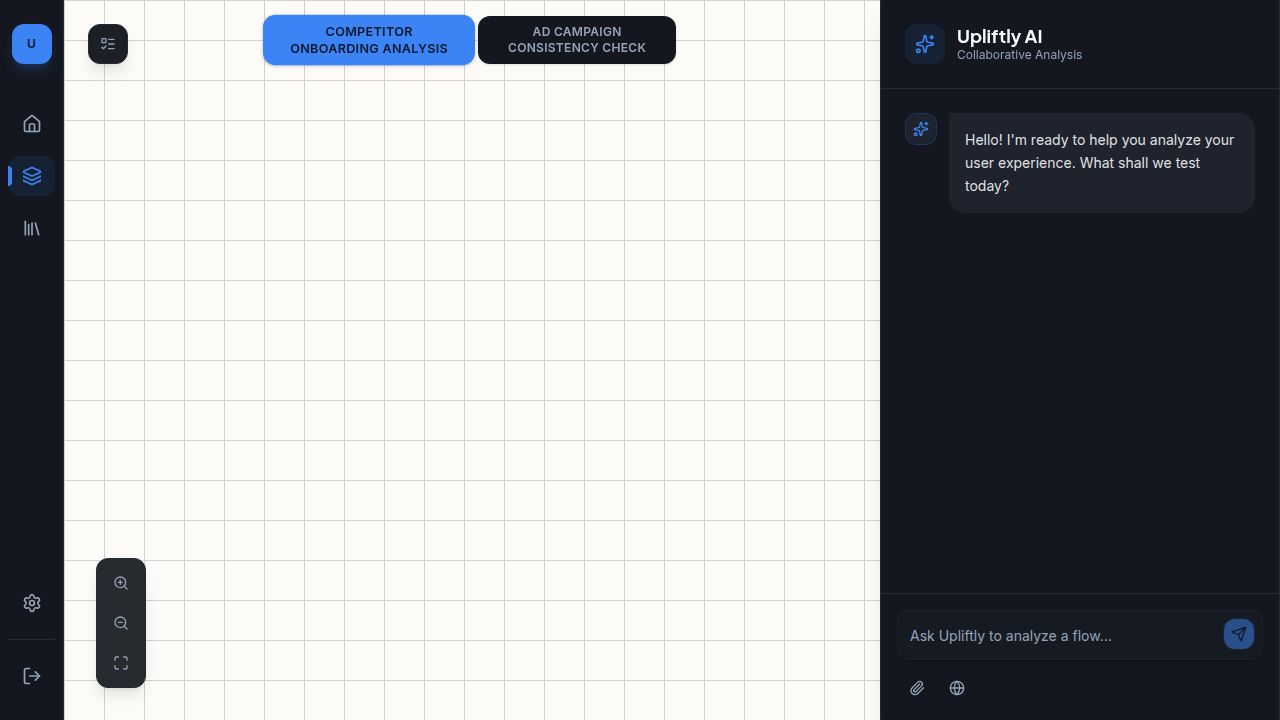
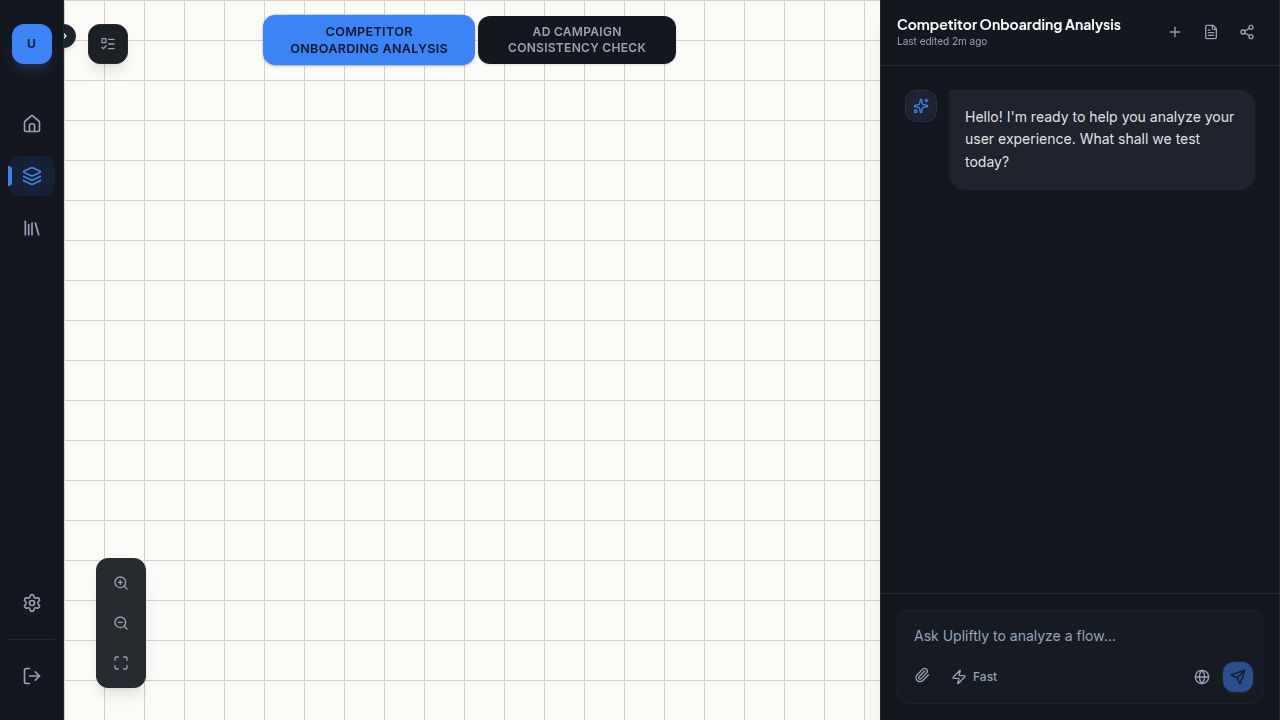
Add quick mode switching for AI chat interactions
Import new icons (Zap, Brain) and add a toggle button to the chat input toolbar in ChatPanel.tsx to switch between "Fast" and "Thinking" modes.

Replit-Commit-Author: Agent
Replit-Commit-Session-Id: ee7d8f41-18be-477e-8907-b86719c88b76
Replit-Commit-Checkpoint-Type: full_checkpoint
Replit-Commit-Event-Id: c0c9cacc-ed82-46da-b4ee-cfec5794dd4d
Replit-Commit-Screenshot-Url: https://storage.googleapis.com/screenshot-production-us-central1/79161833-a499-40d9-9374-0f55e77ff4c2/ee7d8f41-18be-477e-8907-b86719c88b76/55CwH3M
Replit-Helium-Checkpoint-Created: true

diff --git a/client/src/components/chat/ChatPanel.tsx b/client/src/components/chat/ChatPanel.tsx
@@ -3,7 +3,7 @@ import { ScrollArea } from "@/components/ui/scroll-area";
 import { Avatar, AvatarFallback, AvatarImage } from "@/components/ui/avatar";
 import { Button } from "@/components/ui/button";
 import { Input } from "@/components/ui/input";
-import { Send, Sparkles, User, Paperclip, Globe, Plus, FileText, Share2 } from "lucide-react";
+import { Send, Sparkles, User, Paperclip, Globe, Plus, FileText, Share2, Zap, Brain } from "lucide-react";
 import { cn } from "@/lib/utils";
 import { useState } from "react";
 
@@ -15,6 +15,7 @@ interface ChatPanelProps {
 
 export function ChatPanel({ events, onSendMessage, persona }: ChatPanelProps) {
   const [input, setInput] = useState("");
+  const [isThinkingMode, setIsThinkingMode] = useState(false);
 
   const handleSubmit = (e: React.FormEvent) => {
     e.preventDefault();
@@ -117,6 +118,31 @@ export function ChatPanel({ events, onSendMessage, persona }: ChatPanelProps) {
                   title="Attach"
                 >
                   <Paperclip className="w-4 h-4" />
+                </Button>
+                
+                <Button
+                  type="button"
+                  variant="ghost"
+                  className={cn(
+                    "h-8 px-2 text-xs font-medium rounded-lg gap-1.5 transition-colors border border-transparent",
+                    isThinkingMode 
+                      ? "bg-primary/10 text-primary border-primary/20 hover:bg-primary/20" 
+                      : "text-muted-foreground hover:text-foreground hover:bg-muted/50"
+                  )}
+                  onClick={() => setIsThinkingMode(!isThinkingMode)}
+                  title={isThinkingMode ? "Switch to Fast Mode" : "Switch to Thinking Mode"}
+                >
+                  {isThinkingMode ? (
+                    <>
+                      <Brain className="w-3.5 h-3.5" />
+                      <span>Thinking</span>
+                    </>
+                  ) : (
+                    <>
+                      <Zap className="w-3.5 h-3.5" />
+                      <span>Fast</span>
+                    </>
+                  )}
                 </Button>
              </div>
              
